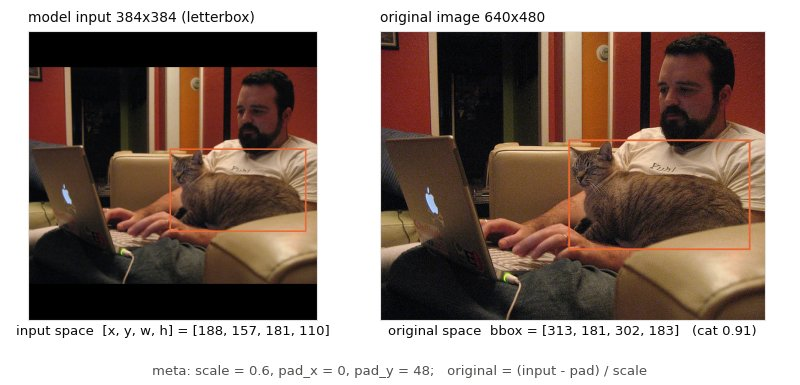
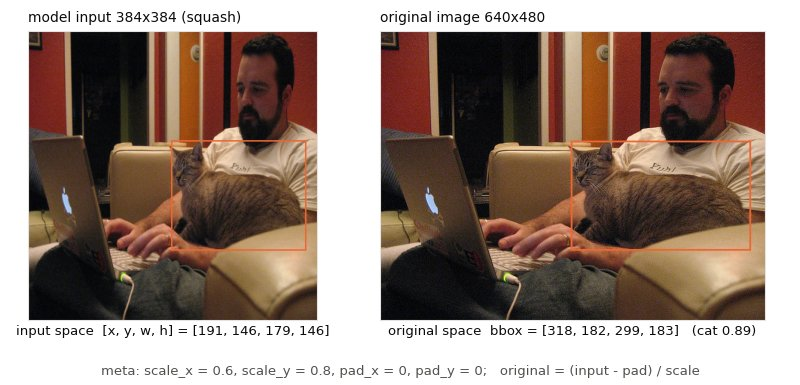
docs figures: stop using rf-detr-nano as the letterbox example
preprocess-modes-177015.jpg showed rf-detr-nano as the letterbox panel and
bbox-mapping-177015.jpg mapped a letterboxed rf-detr-nano box back; rf-detr-nano now squashes.
Regenerated both with website/tools/figures.py (GPU 3, CUDA EP, scratch registry):

- preprocessing: the letterbox panel is a temporary copy of rf-detr-nano with letterbox: true,
  written to the --inspect-models scratch registry and removed afterwards, titled "letterbox
  (illustration)" and captioned as such. depth-anything-v2 was installed this time, so the
  figure has the five models the text announces (it had four).
- box_mapping: the real rf-detr-nano, squash (scale_x 0.6, scale_y 0.8, no padding); the title
  and the meta line now say squash/letterbox and per-axis scales from the meta.
- _inspect_registry generalised into _scratch_copies / _remove_copies.
- Captions in concepts/preprocessing.md, architecture/vision.md, architecture/models.md and
  gallery.md updated (models, illustration note, 29 ms on gpu:0).

Claude-Session: https://claude.ai/code/session_01BsaDZ7GHKaBWN7hLEDwBwM

diff --git a/website/tools/figures.py b/website/tools/figures.py
@@ -30,7 +30,10 @@ Usage
    registry. Use a scratch registry holding a copy of models/rf-detr: the step writes two copies
    of its manifest with one preprocessing mistake each (letterbox, mean/std), runs the
    converter's tiers B1 / B2 / C against them (Python package clients/python/visionserve/convert,
-   plus onnxruntime, pyyaml and pycocotools), prints the report and removes the copies.
+   plus onnxruntime, pyyaml and pycocotools), prints the report and removes the copies. The
+   `preprocessing` step uses the same directory for its letterbox panel: it draws a temporary
+   copy of models/rf-detr-nano with `letterbox: true` (labelled "illustration"; rf-detr-nano
+   itself squashes, as RF-DETR is trained) and removes it afterwards.
 
 Photos: only COCO val2017 images whose Flickr license is "Attribution License" (CC BY 2.0)
 are used (PHOTOS below); each figure credits its photo. Durations are the server's own
@@ -729,17 +732,37 @@ class Builder:
             t = (t * np.array(std) + np.array(mean)) * 255.0
         return Image.fromarray(t.clip(0, 255).astype(np.uint8)), shape
 
+    # The letterbox panel used rf-detr-nano, which letterboxed until 2026-10-05 although RF-DETR is
+    # trained squashed (BUGS_TO_FIX.md #1, -3.16 mAP). Rather than show a model served wrongly, the
+    # panel is a temporary copy of rf-detr-nano with letterbox: true (needs --inspect-models), and
+    # the figure says it is an illustration.
+    LETTERBOX_COPY = {"rf-detr-nano-letterbox": [("\n  letterbox: false\n", "\n  letterbox: true\n")]}
+
     def preprocessing(self):
         pid = 177015
         img, raw = self.photo(pid)
+        made = []
+        if self.args.inspect_models and self.srv.has("rf-detr-nano"):
+            made = self._scratch_copies("rf-detr-nano", self.LETTERBOX_COPY)
+        try:
+            self._preprocessing(pid, img, raw, {d.name for d in made})
+        finally:
+            self._remove_copies(made)
+
+    def _preprocessing(self, pid, img, raw, copies):
         modes = [("rf-detr", "stretch (squash) resize", "imagenet"),
-                 ("rf-detr-nano", "letterbox", "imagenet"),
+                 ("rf-detr-nano-letterbox", "letterbox (illustration)", "imagenet"),
                  ("clip", "center crop", "clip"),
                  ("depth-anything-v2", "keep aspect, multiple of 14", "imagenet"),
                  ("mobile-sam", "longest side = 1024", None)]
         panels, info = [], []
         for model, mode, norm in modes:
-            if not self.srv.has(model):
+            if model in self.LETTERBOX_COPY and model not in copies:
+                self.skipped.append(f"{model} (preprocessing panel '{mode}': needs --inspect-models and rf-detr-nano)")
+                print(f"  skip panel {mode}: the letterbox copy needs --inspect-models (a scratch registry) "
+                      "holding rf-detr-nano")
+                continue
+            if model not in copies and not self.srv.has(model):
                 self.skipped.append(f"{model} (preprocessing panel '{mode}')")
                 print(f"  skip panel {mode}: {model} not installed")
                 continue
@@ -775,6 +798,7 @@ class Builder:
     # -- 14. box mapped back to original coordinates --------------------------------------------
 
     def box_mapping(self):
+        # rf-detr-nano squashes (as trained): scale_x != scale_y on a non-square photo, no padding.
         model = "rf-detr-nano"
         if not self.need(model):
             return
@@ -799,7 +823,8 @@ class Builder:
         db.rectangle([x, y, x + w, y + h], outline=c, width=3)
         fig, axes = plt.subplots(1, 2, figsize=(8, 3.85), gridspec_kw={"width_ratios": [384, 640 * 384 / 480]})
         axes[0].imshow(a)
-        axes[0].set_title(f"model input {shape[2]}x{shape[3]} (letterbox)", fontsize=10, color=INK, loc="left")
+        mode = "letterbox" if px or py else "squash"
+        axes[0].set_title(f"model input {shape[2]}x{shape[3]} ({mode})", fontsize=10, color=INK, loc="left")
         axes[1].imshow(b)
         axes[1].set_title(f"original image {meta['orig_width']}x{meta['orig_height']}", fontsize=10, color=INK, loc="left")
         for ax in axes:
@@ -811,8 +836,9 @@ class Builder:
                            fontsize=9.5, color=INK)
         axes[1].set_xlabel(f"original space  bbox = [{x:.0f}, {y:.0f}, {w:.0f}, {h:.0f}]   ({det['class']} {det['conf']:.2f})",
                            fontsize=9.5, color=INK)
+        scale = f"scale = {sx:g}" if sx == sy else f"scale_x = {sx:g}, scale_y = {sy:g}"
         fig.text(0.5, 0.025,
-                 f"meta: scale = {sx:g}, pad_x = {px}, pad_y = {py};   original = (input - pad) / scale",
+                 f"meta: {scale}, pad_x = {px}, pad_y = {py};   original = (input - pad) / scale",
                  ha="center", fontsize=9.5, color=INK2)
         fig.subplots_adjust(left=0.01, right=0.99, top=0.92, bottom=0.17, wspace=0.04)
         self._save_chart(fig, f"bbox-mapping-{pid}.jpg",
@@ -868,22 +894,27 @@ class Builder:
     }
 
     def _inspect_registry(self):
-        """Write the wrong copies next to models/rf-detr in the server's registry (the server picks
-        new names up on first use). Returns the directories written, for removal afterwards."""
+        """Write the wrong copies next to models/rf-detr in the server's registry."""
+        return self._scratch_copies("rf-detr", self.INSPECT_WRONG)
+
+    def _scratch_copies(self, src_name, copies):
+        """Write copies of models/<src_name>'s manifest, one edit list {name: [(old, new), ...]}
+        each, into the server's registry (--inspect-models; the server picks new names up on first
+        use), weights symlinked. Returns the directories written, for _remove_copies."""
         import yaml
         root = Path(self.args.inspect_models)
-        src = root / "rf-detr"
+        src = root / src_name
         text = (src / "manifest.yaml").read_text()
         weights = src / yaml.safe_load(text)["model_file"]
         made = []
-        for name, subs in self.INSPECT_WRONG.items():
+        for name, subs in copies.items():
             d = root / name
             if d.exists():
-                raise SystemExit(f"{d} exists; remove it first (the inspect step writes and removes it)")
-            t = text.replace("name: rf-detr\n", f"name: {name}\n")
+                raise SystemExit(f"{d} exists; remove it first (this script writes and removes it)")
+            t = text.replace(f"name: {src_name}\n", f"name: {name}\n")
             for a, b in subs:
                 if a not in t:
-                    raise SystemExit(f"{src}/manifest.yaml has no {a!r}; update INSPECT_WRONG")
+                    raise SystemExit(f"{src}/manifest.yaml has no {a!r}; update the copy's edits")
                 t = t.replace(a, b)
             d.mkdir()
             made.append(d)
@@ -893,6 +924,13 @@ class Builder:
                     (d / f.name).write_bytes(f.read_bytes())
             os.symlink(weights.resolve(), d / weights.name)
         return made
+
+    @staticmethod
+    def _remove_copies(made):
+        for d in made:
+            for f in d.iterdir():
+                f.unlink()
+            d.rmdir()
 
     def _inspect_bundle(self, name):
         """A converter Bundle describing models/<name> as the server reads it."""
@@ -917,10 +955,7 @@ class Builder:
         try:
             self._inspect_run()
         finally:
-            for d in made:
-                for f in d.iterdir():
-                    f.unlink()
-                d.rmdir()
+            self._remove_copies(made)
 
     def _inspect_run(self):
         import dataclasses
@@ -1068,8 +1103,9 @@ def main():
     ap.add_argument("--host-note", default="", help="free text recorded in figures.json, e.g. the GPU model")
     ap.add_argument("--only", default="", help="comma-separated subset of: " + ",".join(STEPS))
     ap.add_argument("--inspect-models", default="", metavar="DIR",
-                    help="inspect step: the server's --models dir (a SCRATCH registry with models/rf-detr); "
-                         "the step writes two deliberately wrong copies of rf-detr there and removes them after")
+                    help="inspect and preprocessing steps: the server's --models dir (a SCRATCH registry with "
+                         "models/rf-detr and models/rf-detr-nano); they write temporary manifest copies there "
+                         "(two deliberately wrong rf-detr, one letterboxed rf-detr-nano) and remove them after")
     ap.add_argument("--inspect-eval-max", type=int, default=200, metavar="N",
                     help="inspect step: COCO val images for tier C (default 200; 50 was too noisy: the "
                          "correct manifest measured -1.45 mAP there, +0.34 on 200)")

diff --git a/website/docs/architecture/vision.md b/website/docs/architecture/vision.md
@@ -89,8 +89,8 @@ Only modes that a served architecture actually uses exist, and each reproduces i
 recipe exactly (rounding included).
 
 <figure markdown="span">
-  ![One photo, prepared for four different models — real tensors from /api/preprocess](../assets/img/preprocess-modes-177015.jpg){ loading=lazy }
-  <figcaption>One photo, prepared for four different models — real tensors from /api/preprocess<br/><code>rf-detr + rf-detr-nano + clip + mobile-sam</code> · Photo: COCO val2017 #177015 (<a href="http://farm1.staticflickr.com/131/355302776_1d1215b7c1_z.jpg">Flickr</a>, CC BY 2.0)</figcaption>
+  ![One photo, prepared for five models — real tensors from /api/preprocess](../assets/img/preprocess-modes-177015.jpg){ loading=lazy }
+  <figcaption>One photo, prepared for five models — real tensors from /api/preprocess<br/><code>rf-detr + rf-detr-nano-letterbox + clip + depth-anything-v2 + mobile-sam</code> · the letterbox panel is an illustration: a scratch copy of rf-detr-nano set to letterbox (rf-detr-nano itself squashes, as RF-DETR is trained) · Photo: COCO val2017 #177015 (<a href="http://farm1.staticflickr.com/131/355302776_1d1215b7c1_z.jpg">Flickr</a>, CC BY 2.0)</figcaption>
 </figure>
 
 | Mode | What it does | Tensor size | Default filter | Used by |
@@ -263,7 +263,7 @@ format is `[x, y, w, h]`, top-left corner plus size, everywhere.
 
 <figure markdown="span">
   ![The same detection in the model's input space and in the original photo](../assets/img/bbox-mapping-177015.jpg){ loading=lazy }
-  <figcaption>The same detection in the model's input space and in the original photo<br/><code>rf-detr-nano</code> · 17 ms on gpu:0 · Photo: COCO val2017 #177015 (<a href="http://farm1.staticflickr.com/131/355302776_1d1215b7c1_z.jpg">Flickr</a>, CC BY 2.0)</figcaption>
+  <figcaption>The same detection in the model's input space and in the original photo<br/><code>rf-detr-nano</code> (squash: scale_x 0.6, scale_y 0.8, no padding) · 29 ms on gpu:0 · Photo: COCO val2017 #177015 (<a href="http://farm1.staticflickr.com/131/355302776_1d1215b7c1_z.jpg">Flickr</a>, CC BY 2.0)</figcaption>
 </figure>
 
 ```go title="internal/vision/geom/geom.go"

diff --git a/website/docs/concepts/preprocessing.md b/website/docs/concepts/preprocessing.md
@@ -14,8 +14,8 @@ Here is the same photo prepared for five different models — these are the real
 from the server's `/api/preprocess` endpoint and turned back into pictures:
 
 <figure markdown="span">
-  ![One photo, prepared for four different models — real tensors from /api/preprocess](../assets/img/preprocess-modes-177015.jpg){ loading=lazy }
-  <figcaption>One photo, prepared for four different models — real tensors from /api/preprocess<br/><code>rf-detr + rf-detr-nano + clip + mobile-sam</code> · Photo: COCO val2017 #177015 (<a href="http://farm1.staticflickr.com/131/355302776_1d1215b7c1_z.jpg">Flickr</a>, CC BY 2.0)</figcaption>
+  ![One photo, prepared for five models — real tensors from /api/preprocess](../assets/img/preprocess-modes-177015.jpg){ loading=lazy }
+  <figcaption>One photo, prepared for five models — real tensors from /api/preprocess<br/><code>rf-detr + rf-detr-nano-letterbox + clip + depth-anything-v2 + mobile-sam</code> · the letterbox panel is an illustration: a scratch copy of rf-detr-nano set to letterbox (rf-detr-nano itself squashes, as RF-DETR is trained) · Photo: COCO val2017 #177015 (<a href="http://farm1.staticflickr.com/131/355302776_1d1215b7c1_z.jpg">Flickr</a>, CC BY 2.0)</figcaption>
 </figure>
 
 | Mode (`resize:`) | What it does | Used by |
@@ -66,7 +66,7 @@ pixels:
 
 <figure markdown="span">
   ![The same detection in the model's input space and in the original photo](../assets/img/bbox-mapping-177015.jpg){ loading=lazy }
-  <figcaption>The same detection in the model's input space and in the original photo<br/><code>rf-detr-nano</code> · 17 ms on gpu:0 · Photo: COCO val2017 #177015 (<a href="http://farm1.staticflickr.com/131/355302776_1d1215b7c1_z.jpg">Flickr</a>, CC BY 2.0)</figcaption>
+  <figcaption>The same detection in the model's input space and in the original photo<br/><code>rf-detr-nano</code> (squash: scale_x 0.6, scale_y 0.8, no padding) · 29 ms on gpu:0 · Photo: COCO val2017 #177015 (<a href="http://farm1.staticflickr.com/131/355302776_1d1215b7c1_z.jpg">Flickr</a>, CC BY 2.0)</figcaption>
 </figure>
 
 !!! code "Where in the code"

diff --git a/website/docs/gallery.md b/website/docs/gallery.md
@@ -160,13 +160,13 @@ the raw numbers are in [`figures.json`](assets/img/figures.json).
 ## Preprocessing
 
 <figure markdown="span">
-  ![One photo, prepared for four different models — real tensors from /api/preprocess](assets/img/preprocess-modes-177015.jpg){ loading=lazy }
-  <figcaption>One photo, prepared for four different models — real tensors from /api/preprocess<br/><code>rf-detr + rf-detr-nano + clip + mobile-sam</code> · Photo: COCO val2017 #177015 (<a href="http://farm1.staticflickr.com/131/355302776_1d1215b7c1_z.jpg">Flickr</a>, CC BY 2.0)</figcaption>
+  ![One photo, prepared for five models — real tensors from /api/preprocess](assets/img/preprocess-modes-177015.jpg){ loading=lazy }
+  <figcaption>One photo, prepared for five models — real tensors from /api/preprocess<br/><code>rf-detr + rf-detr-nano-letterbox + clip + depth-anything-v2 + mobile-sam</code> · the letterbox panel is an illustration: a scratch copy of rf-detr-nano set to letterbox (rf-detr-nano itself squashes, as RF-DETR is trained) · Photo: COCO val2017 #177015 (<a href="http://farm1.staticflickr.com/131/355302776_1d1215b7c1_z.jpg">Flickr</a>, CC BY 2.0)</figcaption>
 </figure>
 
 <figure markdown="span">
   ![The same detection in the model's input space and in the original photo](assets/img/bbox-mapping-177015.jpg){ loading=lazy }
-  <figcaption>The same detection in the model's input space and in the original photo<br/><code>rf-detr-nano</code> · 17 ms on gpu:0 · Photo: COCO val2017 #177015 (<a href="http://farm1.staticflickr.com/131/355302776_1d1215b7c1_z.jpg">Flickr</a>, CC BY 2.0)</figcaption>
+  <figcaption>The same detection in the model's input space and in the original photo<br/><code>rf-detr-nano</code> (squash: scale_x 0.6, scale_y 0.8, no padding) · 29 ms on gpu:0 · Photo: COCO val2017 #177015 (<a href="http://farm1.staticflickr.com/131/355302776_1d1215b7c1_z.jpg">Flickr</a>, CC BY 2.0)</figcaption>
 </figure>
 
 ---

diff --git a/website/docs/architecture/models.md b/website/docs/architecture/models.md
@@ -408,7 +408,7 @@ image.
 
 <figure markdown="span">
   ![The same detection in the model's input space and in the original photo](../assets/img/bbox-mapping-177015.jpg){ loading=lazy }
-  <figcaption>The same detection in the model's input space and in the original photo<br/><code>rf-detr-nano</code> · 17 ms on gpu:0 · Photo: COCO val2017 #177015 (<a href="http://farm1.staticflickr.com/131/355302776_1d1215b7c1_z.jpg">Flickr</a>, CC BY 2.0)</figcaption>
+  <figcaption>The same detection in the model's input space and in the original photo<br/><code>rf-detr-nano</code> (squash: scale_x 0.6, scale_y 0.8, no padding) · 29 ms on gpu:0 · Photo: COCO val2017 #177015 (<a href="http://farm1.staticflickr.com/131/355302776_1d1215b7c1_z.jpg">Flickr</a>, CC BY 2.0)</figcaption>
 </figure>
 
 ```go title="internal/models/detr/postprocess.go"
